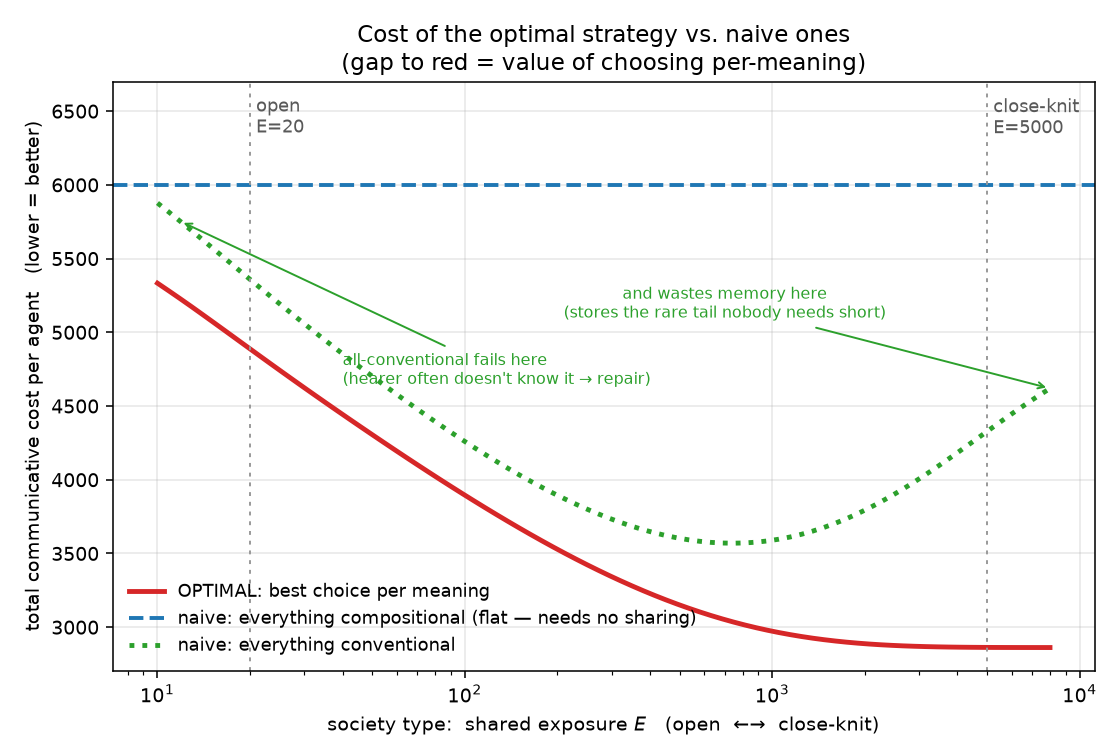
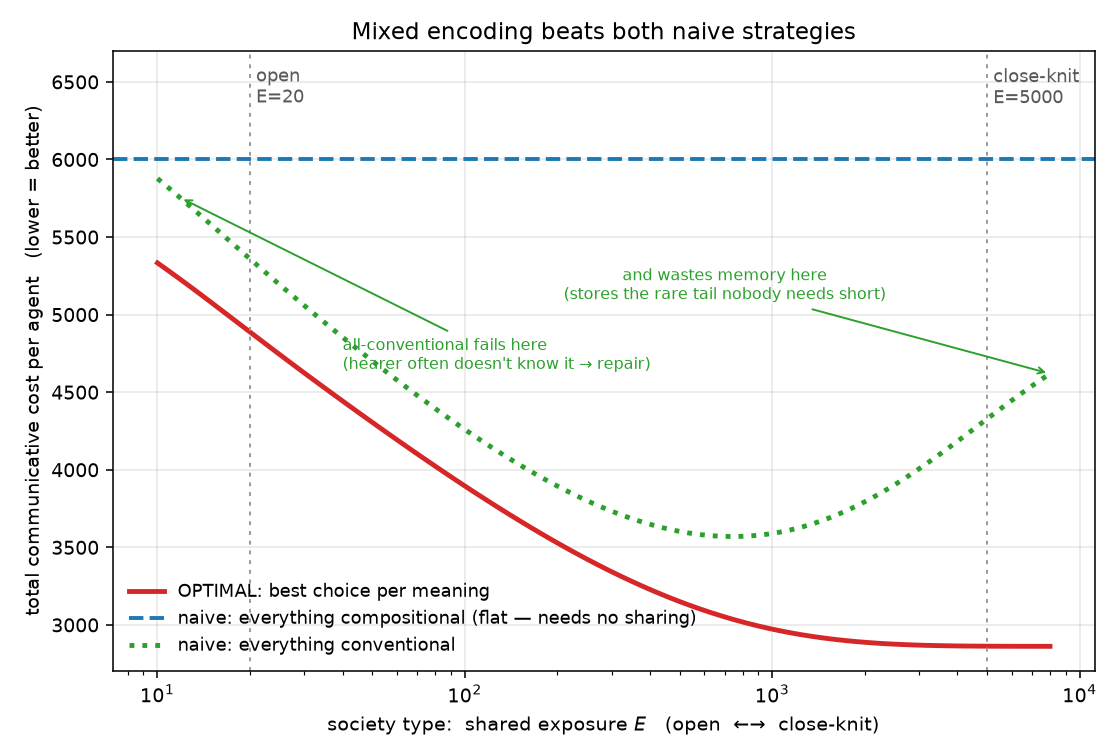
Reorder figures into a three-beat narrative
Put the cost sanity check first, split shared-knowledge into its own
figure, and combine the encoding frontier with lexicon composition.

diff --git a/run_experiments.py b/run_experiments.py
@@ -1,10 +1,10 @@
 """
 Run the tradeoff model across a spectrum of societies and produce figures.
 
-Outputs (written to ./figures):
-  1. society_profiles.png       -- who-knows-what and the conventionalization frontier
-  2. lexicon_vs_society.png     -- lexicon composition vs society type
-  3. cost_vs_society.png        -- optimal vs naive strategy cost vs society type
+Narrative order (written to ./figures):
+  1. cost_vs_society.png         -- sanity check: mixed encoding beats naive strategies
+  2. shared_knowledge.png        -- how far conventions can be known, by society type
+  3. encoding_and_lexicon.png    -- which items to conventionalize, and the resulting lexicon
 """
 
 from __future__ import annotations
@@ -29,44 +29,6 @@ FIG_DIR = "figures"
 SOCIETIES = [("open", 20.0), ("loose", 80.0), ("mid", 300.0), ("close-knit", 5000.0)]
 
 
-def fig_society_profiles(params: ModelParams) -> None:
-    f = zipf_frequencies(params.V, params.zipf_s)
-    ranks = np.arange(1, params.V + 1)
-
-    fig, (ax0, ax1) = plt.subplots(1, 2, figsize=(13, 5))
-
-    # (a) knowledge curves: how deep into the frequency tail conventions are shared
-    for label, E in SOCIETIES:
-        ax0.plot(ranks, knowledge_prob(f, E, params.lam), label=f"{label} (E={E:g})")
-    ax0.set_xscale("log")
-    ax0.set_xlabel("meaning, by frequency rank (1 = most frequent)")
-    ax0.set_ylabel("P(random hearer knows the convention),  $q_i$")
-    ax0.set_title("(a) How far shared knowledge reaches into the tail")
-    ax0.legend(frameon=False)
-    ax0.grid(alpha=0.3)
-
-    # (b) conventionalization frontier: optimal encoding per item, per society
-    E_grid = np.geomspace(10, 8000, 60)
-    frontier = np.array([evaluate_society(E, params).conventionalize for E in E_grid])
-    mesh = ax1.pcolormesh(
-        ranks, E_grid, frontier.astype(float),
-        shading="auto", cmap="RdYlBu_r", vmin=0, vmax=1,
-    )
-    ax1.set_xscale("log")
-    ax1.set_yscale("log")
-    ax1.set_xlabel("meaning, by frequency rank")
-    ax1.set_ylabel("society: shared exposure  $E$  (open → close-knit)")
-    ax1.set_title("(b) Optimal encoding\n(red = conventional, blue = compositional)")
-    cbar = fig.colorbar(mesh, ax=ax1, ticks=[0, 1])
-    cbar.ax.set_yticklabels(["compositional", "conventional"])
-
-    fig.tight_layout()
-    out = os.path.join(FIG_DIR, "society_profiles.png")
-    fig.savefig(out, dpi=140)
-    plt.close(fig)
-    print("wrote", out)
-
-
 def _mark_archetypes(ax, y: float, va: str = "top") -> None:
     """Drop labelled guide-lines for the open and close-knit archetypes."""
     for E, name in [(20.0, "open"), (5000.0, "close-knit")]:
@@ -79,33 +41,6 @@ def _sweep(params: ModelParams):
     E_grid = np.geomspace(10, 8000, 80)
     results = sweep_exposure(E_grid, params)
     return E_grid, results
-
-
-def fig_lexicon_vs_society(params: ModelParams) -> None:
-    E_grid, results = _sweep(params)
-    frac_types = [r.frac_conv_types for r in results]
-    frac_tokens = [r.frac_conv_tokens for r in results]
-    shared = [r.shared_vocab_frac for r in results]
-
-    fig, ax = plt.subplots(figsize=(9.5, 5))
-    ax.plot(E_grid, shared, lw=2, label="% lexicon shareable ($q \\geq 0.5$)")
-    ax.plot(E_grid, frac_tokens, lw=2, label="% of usage that is conventional")
-    ax.plot(E_grid, frac_types, lw=2, label="% of meanings conventionalized")
-    ax.set_xscale("log")
-    ax.set_ylim(0, 1.08)
-    ax.set_xlabel("society type:  shared exposure $E$   (open  ←→  close-knit)")
-    ax.set_ylabel("fraction")
-    ax.set_title("Lexicon composition vs society type")
-    ax.legend(frameon=False, loc="upper left", fontsize=9,
-              bbox_to_anchor=(1.02, 1.0), borderaxespad=0)
-    ax.grid(alpha=0.3)
-    _mark_archetypes(ax, 1.06)
-
-    fig.tight_layout()
-    out = os.path.join(FIG_DIR, "lexicon_vs_society.png")
-    fig.savefig(out, dpi=140)
-    plt.close(fig)
-    print("wrote", out)
 
 
 def fig_cost_vs_society(params: ModelParams) -> None:
@@ -124,8 +59,7 @@ def fig_cost_vs_society(params: ModelParams) -> None:
     ax.set_ylim(top=6700)
     ax.set_xlabel("society type:  shared exposure $E$   (open  ←→  close-knit)")
     ax.set_ylabel("total communicative cost per agent   (lower = better)")
-    ax.set_title("Cost of the optimal strategy vs. naive ones\n"
-                 "(gap to red = value of choosing per-meaning)")
+    ax.set_title("Mixed encoding beats both naive strategies")
     ax.legend(frameon=False, loc="lower left", fontsize=9)
     ax.grid(alpha=0.3)
 
@@ -146,12 +80,82 @@ def fig_cost_vs_society(params: ModelParams) -> None:
     print("wrote", out)
 
 
+def fig_shared_knowledge(params: ModelParams) -> None:
+    f = zipf_frequencies(params.V, params.zipf_s)
+    ranks = np.arange(1, params.V + 1)
+
+    fig, ax = plt.subplots(figsize=(7.5, 5))
+    for label, E in SOCIETIES:
+        ax.plot(ranks, knowledge_prob(f, E, params.lam), label=f"{label} (E={E:g})")
+    ax.set_xscale("log")
+    ax.set_xlabel("meaning, by frequency rank (1 = most frequent)")
+    ax.set_ylabel("P(random hearer knows the convention),  $q_i$")
+    ax.set_title("Shared exposure determines how far conventions can be known")
+    ax.legend(frameon=False)
+    ax.grid(alpha=0.3)
+
+    fig.tight_layout()
+    out = os.path.join(FIG_DIR, "shared_knowledge.png")
+    fig.savefig(out, dpi=140)
+    plt.close(fig)
+    print("wrote", out)
+
+
+def fig_encoding_and_lexicon(params: ModelParams) -> None:
+    f = zipf_frequencies(params.V, params.zipf_s)
+    ranks = np.arange(1, params.V + 1)
+    E_grid_hm = np.geomspace(10, 8000, 60)
+    frontier = np.array([evaluate_society(E, params).conventionalize for E in E_grid_hm])
+
+    E_grid, results = _sweep(params)
+    frac_types = [r.frac_conv_types for r in results]
+    frac_tokens = [r.frac_conv_tokens for r in results]
+    shared = [r.shared_vocab_frac for r in results]
+
+    fig, (ax0, ax1) = plt.subplots(1, 2, figsize=(13.5, 5.2))
+
+    mesh = ax0.pcolormesh(
+        ranks, E_grid_hm, frontier.astype(float),
+        shading="auto", cmap="RdYlBu_r", vmin=0, vmax=1,
+    )
+    ax0.set_xscale("log")
+    ax0.set_yscale("log")
+    ax0.set_xlabel("meaning, by frequency rank")
+    ax0.set_ylabel("society: shared exposure  $E$  (open → close-knit)")
+    ax0.set_title("(a) Which meanings to conventionalize")
+    cbar = fig.colorbar(mesh, ax=ax0, ticks=[0, 1])
+    cbar.ax.set_yticklabels(["compositional", "conventional"])
+
+    ax1.plot(E_grid, shared, lw=2, label="% lexicon shareable ($q \\geq 0.5$)")
+    ax1.plot(E_grid, frac_tokens, lw=2, label="% of usage that is conventional")
+    ax1.plot(E_grid, frac_types, lw=2, label="% of meanings conventionalized")
+    ax1.set_xscale("log")
+    ax1.set_ylim(0, 1.08)
+    ax1.set_xlabel("society type:  shared exposure $E$   (open  ←→  close-knit)")
+    ax1.set_ylabel("fraction")
+    ax1.set_title("(b) What the resulting lexicon looks like")
+    ax1.legend(frameon=False, loc="center left", fontsize=8)
+    ax1.grid(alpha=0.3)
+    _mark_archetypes(ax1, 1.06)
+
+    fig.tight_layout()
+    out = os.path.join(FIG_DIR, "encoding_and_lexicon.png")
+    fig.savefig(out, dpi=140)
+    plt.close(fig)
+    print("wrote", out)
+
+
 def main() -> None:
     os.makedirs(FIG_DIR, exist_ok=True)
     params = ModelParams()
-    fig_society_profiles(params)
-    fig_lexicon_vs_society(params)
     fig_cost_vs_society(params)
+    fig_shared_knowledge(params)
+    fig_encoding_and_lexicon(params)
+    for stale in ("society_profiles.png", "lexicon_vs_society.png"):
+        path = os.path.join(FIG_DIR, stale)
+        if os.path.exists(path):
+            os.remove(path)
+            print("removed", path)
     print("\nAll figures written to ./figures/")
 
 

diff --git a/README.md b/README.md
@@ -58,18 +58,22 @@ python society_model.py       # quick numeric summary of 3 archetypal societies
 python run_experiments.py     # generate all figures in ./figures/
 ```
 
-## What the model predicts (with default parameters)
+## Figures (narrative order)
 
-1. **Conventionalization frontier follows frequency.** In every society, the
-   frequent core is conventionalized and the tail stays compositional; closer-
-   knit societies push the frontier deeper into the tail
-   (`figures/society_profiles.png`).
-2. **Open societies still conventionalize their frequent core.** Even at low `E`,
-   ~1% of *types* are conventional but they carry ~40%+ of *tokens*
-   (`figures/lexicon_vs_society.png`).
-3. **Being all-conventional backfires in close-knit societies.** Memorizing the
-   rare tail wastes memory; only per-item optimization keeps improving
-   (`figures/cost_vs_society.png`).
+1. **Sanity check** (`figures/cost_vs_society.png`). Mixed (per-meaning) encoding
+   beats both naive strategies in every society. All-compositional is flat —
+   sharing does not help if nothing is memorized. All-conventional is U-shaped:
+   it fails with strangers and wastes memory on the rare tail when everyone
+   *could* share it.
+2. **Why society type matters** (`figures/shared_knowledge.png`). Shared
+   exposure `E` sets how far into the frequency tail a random hearer knows a
+   convention. This `q_i` is the input to the cost comparison.
+3. **What lexicon that produces** (`figures/encoding_and_lexicon.png`).
+   (a) Conventionalize the frequent core; closer-knit societies push the
+   frontier deeper, but the tail stays compositional. (b) Aggregating that
+   choice: even open societies conventionalize a few types that carry a large
+   share of usage; close-knit societies can share almost the whole lexicon,
+   but still only conventionalize ~17% of types.
 
 ## Knobs to explore
 
